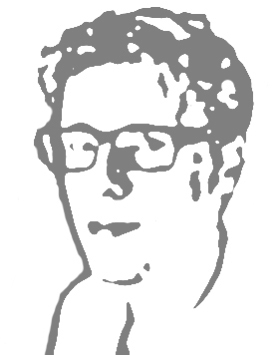
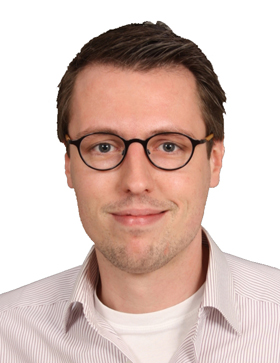
updated portrait and colours

diff --git a/stylesheet.css b/stylesheet.css
@@ -14,7 +14,7 @@ a:visited {
 
 a:hover {
   text-decoration: none;
-  color: #0099cc;
+  color: #006699;
   background: #eeeeee;
 }
 
@@ -42,7 +42,7 @@ h1 {
   font-family: sans-serif;
   font-size: 8pt;
   font-weight: bold;
-  color: #cc0033;
+  color: #003366;
 }
 
 div.north
